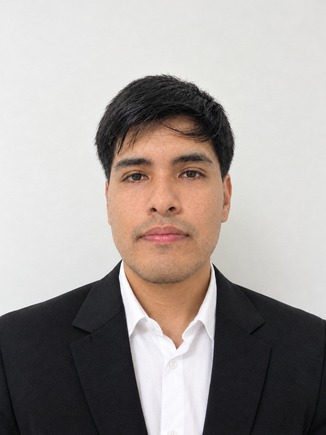
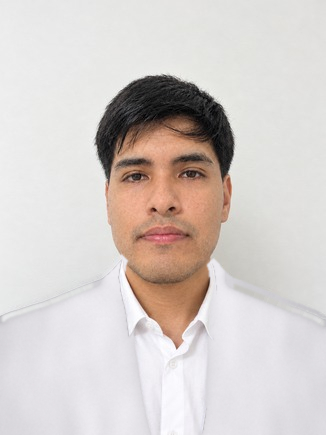
Foto de perfil con camisa blanca

Changed region(s): [[0.0, 0.5678, 0.4601, 1.0], [0.6135, 0.5977, 1.0, 1.0]]

diff --git a/index.html b/index.html
@@ -75,7 +75,7 @@
           </div>
           <div class="hero-bottom">
             <div class="hero-intro"><p>Programo en SAP ABAP desde 2023.<br>En mis ratos libres aprendo<br>tecnologías nuevas y las pruebo<br>en proyectos propios.</p><a class="text-link" href="#trabajo">Ver lo que armé <span>↓</span></a></div>
-            <a class="portrait-note" href="#perfil"><img src="assets/ariel-lopez.jpg" alt="Retrato de Ariel López" width="326" height="435"><span>SOY ARIEL.<br><b>Conoceme un poco más ↗</b></span></a>
+            <a class="portrait-note" href="#perfil"><img src="assets/ariel-lopez.jpg?v=camisa" alt="Retrato de Ariel López" width="326" height="435"><span>SOY ARIEL.<br><b>Conoceme un poco más ↗</b></span></a>
           </div>
         </div>
         <div class="hero-baseline"><span>CONSULTOR SAP ABAP · ANALISTA DE SISTEMAS</span><span>DESPLAZÁ PARA EXPLORAR ↓</span></div>
@@ -117,7 +117,7 @@
     </div>
     <section class="profile section-pad" id="perfil" aria-labelledby="profile-title">
       <p class="eyebrow">02 / SOBRE MÍ</p>
-      <div class="profile-grid"><div class="profile-portrait reveal"><div class="portrait-frame"><img src="assets/ariel-lopez.jpg" alt="Retrato de Ariel López, consultor SAP ABAP" width="326" height="435" loading="lazy"></div><div class="portrait-meta"><span>ARIEL LÓPEZ</span><span>BUENOS AIRES ↗</span></div><span class="portrait-stamp" aria-hidden="true">AL<br>↗</span></div><div class="profile-copy reveal"><h2 id="profile-title">Antes de programar,<br>pregunto.</h2><p class="profile-lead">Lo primero que hago es entender cómo trabaja la persona que va a usar el desarrollo. El código viene después.</p><p>Soy consultor SAP ABAP en Practical Solutions y trabajo sobre todo con SD y MM: reportes, funciones, clases, formularios y mucho soporte.</p><p>Fuera del laburo me gusta armar cosas propias. Folio sirve para seguir pedidos y entregas. Lote revisa una lista de materiales antes de subirla a otro sistema. Y Nexo es para community managers que buscan clientes.</p><a class="pill-link" href="assets/ariel-lopez-cv-publico.pdf" download>Descargar mi CV <span>↙</span></a></div></div>
+      <div class="profile-grid"><div class="profile-portrait reveal"><div class="portrait-frame"><img src="assets/ariel-lopez.jpg?v=camisa" alt="Retrato de Ariel López, consultor SAP ABAP" width="326" height="435" loading="lazy"></div><div class="portrait-meta"><span>ARIEL LÓPEZ</span><span>BUENOS AIRES ↗</span></div><span class="portrait-stamp" aria-hidden="true">AL<br>↗</span></div><div class="profile-copy reveal"><h2 id="profile-title">Antes de programar,<br>pregunto.</h2><p class="profile-lead">Lo primero que hago es entender cómo trabaja la persona que va a usar el desarrollo. El código viene después.</p><p>Soy consultor SAP ABAP en Practical Solutions y trabajo sobre todo con SD y MM: reportes, funciones, clases, formularios y mucho soporte.</p><p>Fuera del laburo me gusta armar cosas propias. Folio sirve para seguir pedidos y entregas. Lote revisa una lista de materiales antes de subirla a otro sistema. Y Nexo es para community managers que buscan clientes.</p><a class="pill-link" href="assets/ariel-lopez-cv-publico.pdf" download>Descargar mi CV <span>↙</span></a></div></div>
       <div class="capabilities"><div class="capabilities-intro"><p class="eyebrow">CON QUÉ TRABAJO</p><p>Lo que uso en el trabajo<br>y lo que aprendí estudiando.</p></div><div class="skills-list"><details open><summary><span><small>01</small> SAP & ERP</span><span class="details-sign" aria-hidden="true"></span></summary><div class="skills-content"><p>Es lo que hago todos los días: reportes ALV, funciones, clases y ajustes a programas Z.</p><div class="tags"><span>ABAP</span><span>SD / MM</span><span>CDS Views</span><span>Smartforms</span><span>Adobe Forms</span><span>SAP Query</span></div></div></details><details><summary><span><small>02</small> Desarrollo & datos</span><span class="details-sign" aria-hidden="true"></span></summary><div class="skills-content"><p>Lo aprendí en la facu y en cursos. Lo uso en mis proyectos propios.</p><div class="tags"><span>JavaScript</span><span>React</span><span>HTML / CSS</span><span>Java</span><span>Python</span><span>PHP</span><span>SQL</span><span>MySQL</span></div></div></details><details><summary><span><small>03</small> Herramientas & colaboración</span><span class="details-sign" aria-hidden="true"></span></summary><div class="skills-content"><p>Para probar APIs, organizarme y versionar el código.</p><div class="tags"><span>Postman</span><span>Trello</span><span>GitHub</span></div></div></details></div></div>
     </section>
 
